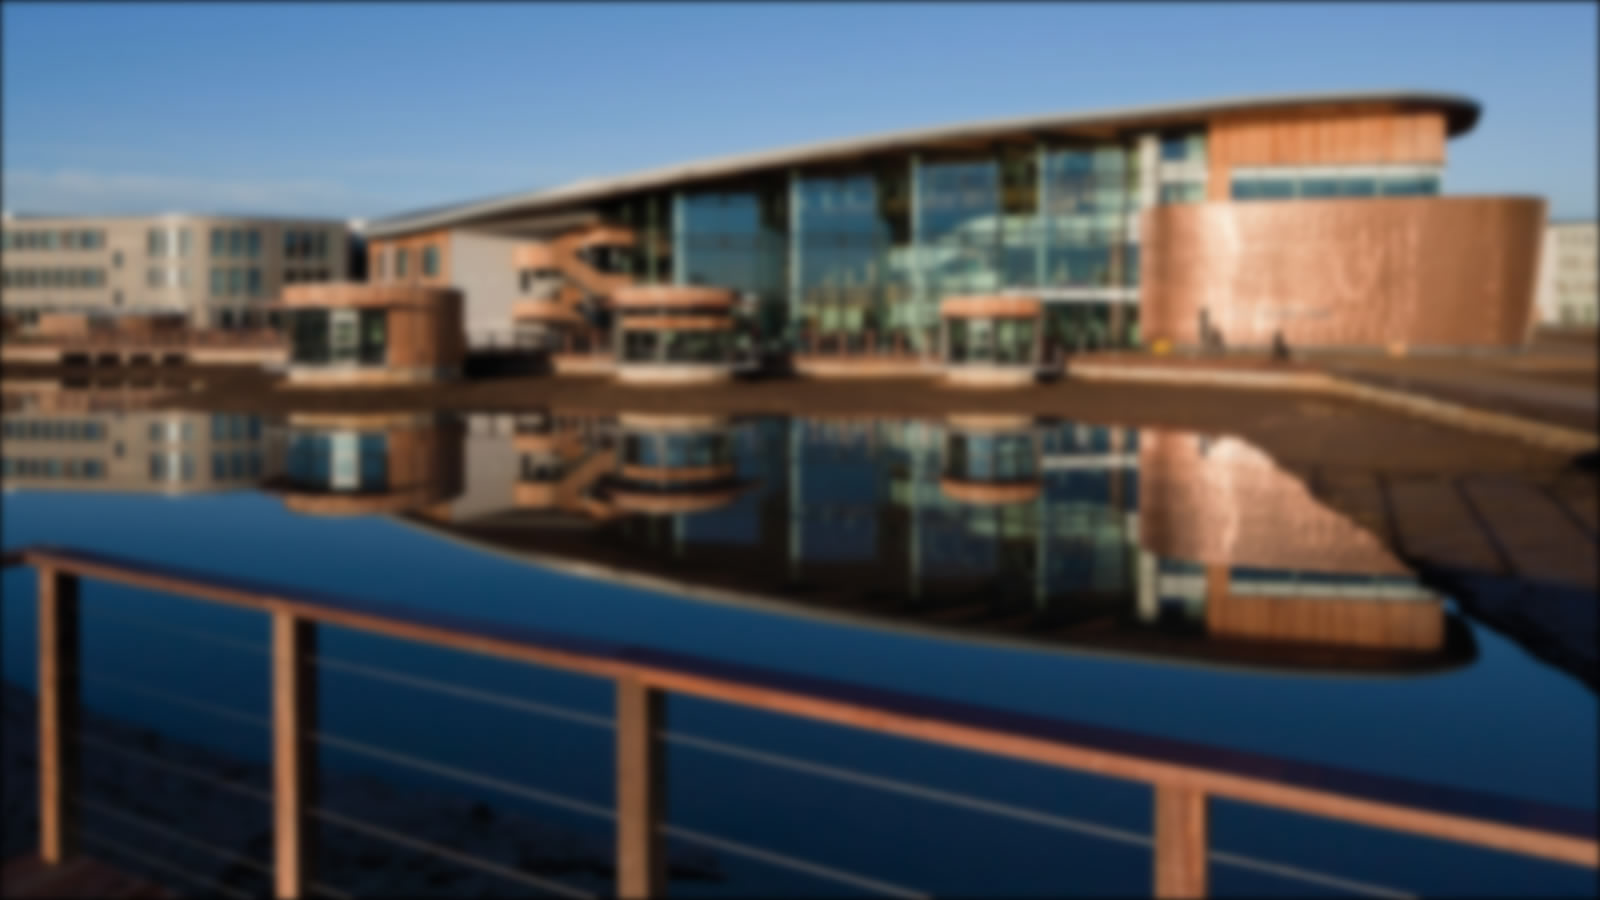
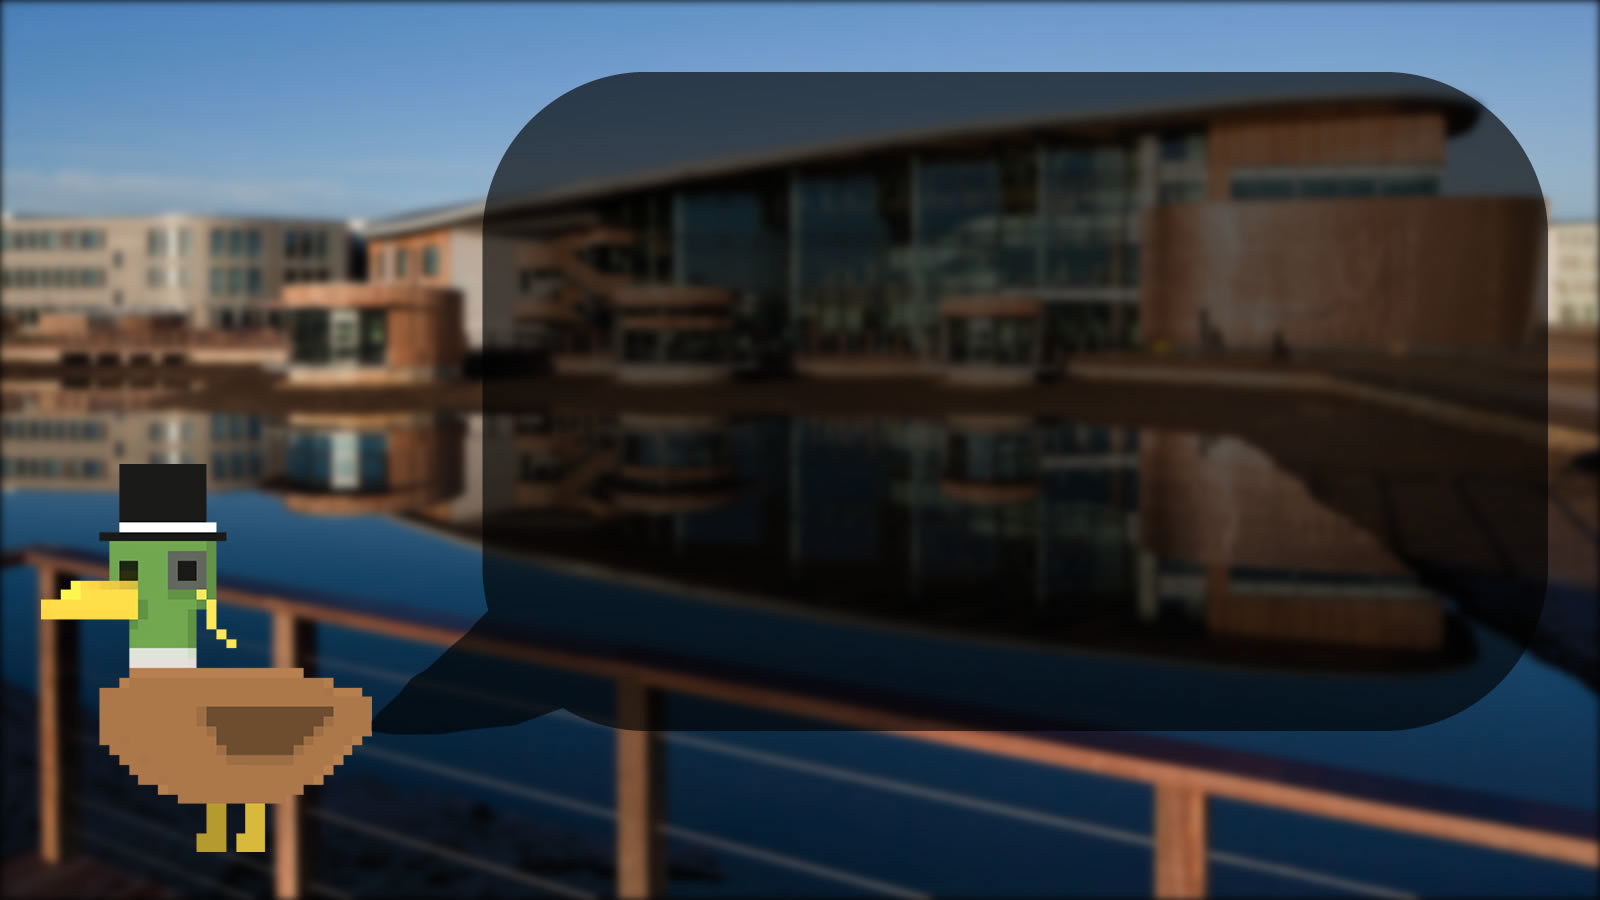
Narrator Screen works. Yay

diff --git a/game/src/main/java/org/teamfarce/mirch/Screens/NarratorScreen.java b/game/src/main/java/org/teamfarce/mirch/Screens/NarratorScreen.java
@@ -1,12 +1,11 @@
 package org.teamfarce.mirch.Screens;
 
 import com.badlogic.gdx.Gdx;
-import com.badlogic.gdx.graphics.Texture;
 import com.badlogic.gdx.graphics.g2d.TextureRegion;
-import com.badlogic.gdx.scenes.scene2d.Actor;
 import com.badlogic.gdx.scenes.scene2d.Stage;
 import com.badlogic.gdx.scenes.scene2d.ui.Image;
 import com.badlogic.gdx.scenes.scene2d.ui.Skin;
+import com.badlogic.gdx.scenes.scene2d.ui.TextArea;
 import com.badlogic.gdx.utils.viewport.FitViewport;
 import org.teamfarce.mirch.Assets;
 import org.teamfarce.mirch.GameSnapshot;
@@ -23,12 +22,25 @@ public class NarratorScreen extends AbstractScreen {
     public Stage narratorStage;
     private Skin uiSkin;
 
+    private String currentMessage = "";
+    private String endMessage = "";
+
+    private TextArea speech;
+
+    final static int FRAMES_PER_LETTER = 2;
+
+    private int currentFrames = 0;
+
+    final static int SPEECH_MARGIN = Gdx.graphics.getWidth() / 10;
+
     public NarratorScreen(MIRCH game, Skin uiSkin)
     {
         super(game);
         this.game = game;
         this.gameSnapshot = game.gameSnapshot;
         this.uiSkin = uiSkin;
+
+        setSpeech("Hello, my name is Sir Heslington, kill me");
     }
 
     private void initStage()
@@ -39,11 +51,39 @@ public class NarratorScreen extends AbstractScreen {
         background.setHeight(Gdx.graphics.getHeight());
         background.setWidth(Gdx.graphics.getWidth());
 
-        Image narrator = new Image(new TextureRegion(Assets.loadTexture("duck.png")));
-        narrator.setHeight(Gdx.graphics.getHeight() / 4);
-        narrator.setWidth(Gdx.graphics.getWidth() / 5);
+        String testText = "";
+
+        for (int i = 0; i <= 1000; i ++)
+        {
+            testText = testText + "Aas";
+        }
+
+        testText = testText + "END";
+
+        speech = new TextArea(currentMessage, uiSkin);
+        speech.setSize(Gdx.graphics.getWidth() * 0.6f, Gdx.graphics.getHeight() * 0.6f);
+        speech.setPosition(Gdx.graphics.getWidth() / 3, Gdx.graphics.getHeight() * 0.25f);
 
         narratorStage.addActor(background);
+        narratorStage.addActor(speech);
+    }
+
+    private void updateSpeech()
+    {
+        if (endMessage.equals(currentMessage))
+        {
+            return;
+        }
+
+        currentMessage = currentMessage + endMessage.charAt(currentMessage.length());
+
+        speech.setText(currentMessage);
+    }
+
+    public void setSpeech(String speech)
+    {
+        endMessage = speech;
+        currentMessage = "";
     }
 
     @Override
@@ -53,6 +93,15 @@ public class NarratorScreen extends AbstractScreen {
 
     @Override
     public void render(float delta) {
+
+        currentFrames ++;
+
+        if (currentFrames >= FRAMES_PER_LETTER)
+        {
+            currentFrames = 0;
+            updateSpeech();
+        }
+
         narratorStage.act();
         narratorStage.draw();
     }
